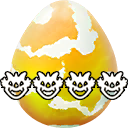
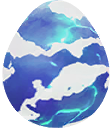
Re-enabled raid level 4 and updated the egg image

diff --git a/constants.php b/constants.php
@@ -3,7 +3,7 @@
 define('PORTAL_IMAGES_PATH', IMAGES_PATH . '/gyms');
 
 // raid levels constant
-define('RAID_LEVEL_ALL', 'X876531');
+define('RAID_LEVEL_ALL', 'X8765431');
 
 // Raid eggs.
 $eggs = array(
@@ -18,12 +18,13 @@ $eggs = array(
 );
 
 // Levels available for import at PokeBattler
-$pokebattler_levels = array('8', '7', '6', '5', '3', '1');
+$pokebattler_levels = array('8', '7', '6', '5', '4', '3', '1');
 
 // Map our raid levels to tier names PokeBattler uses
 $pokebattler_level_map = [
     '1' => 1,
     '3' => 3,
+    '4' => 4,
     '5' => 5,
     '6' => 'MEGA',
     '7' => 'MEGA_5',
